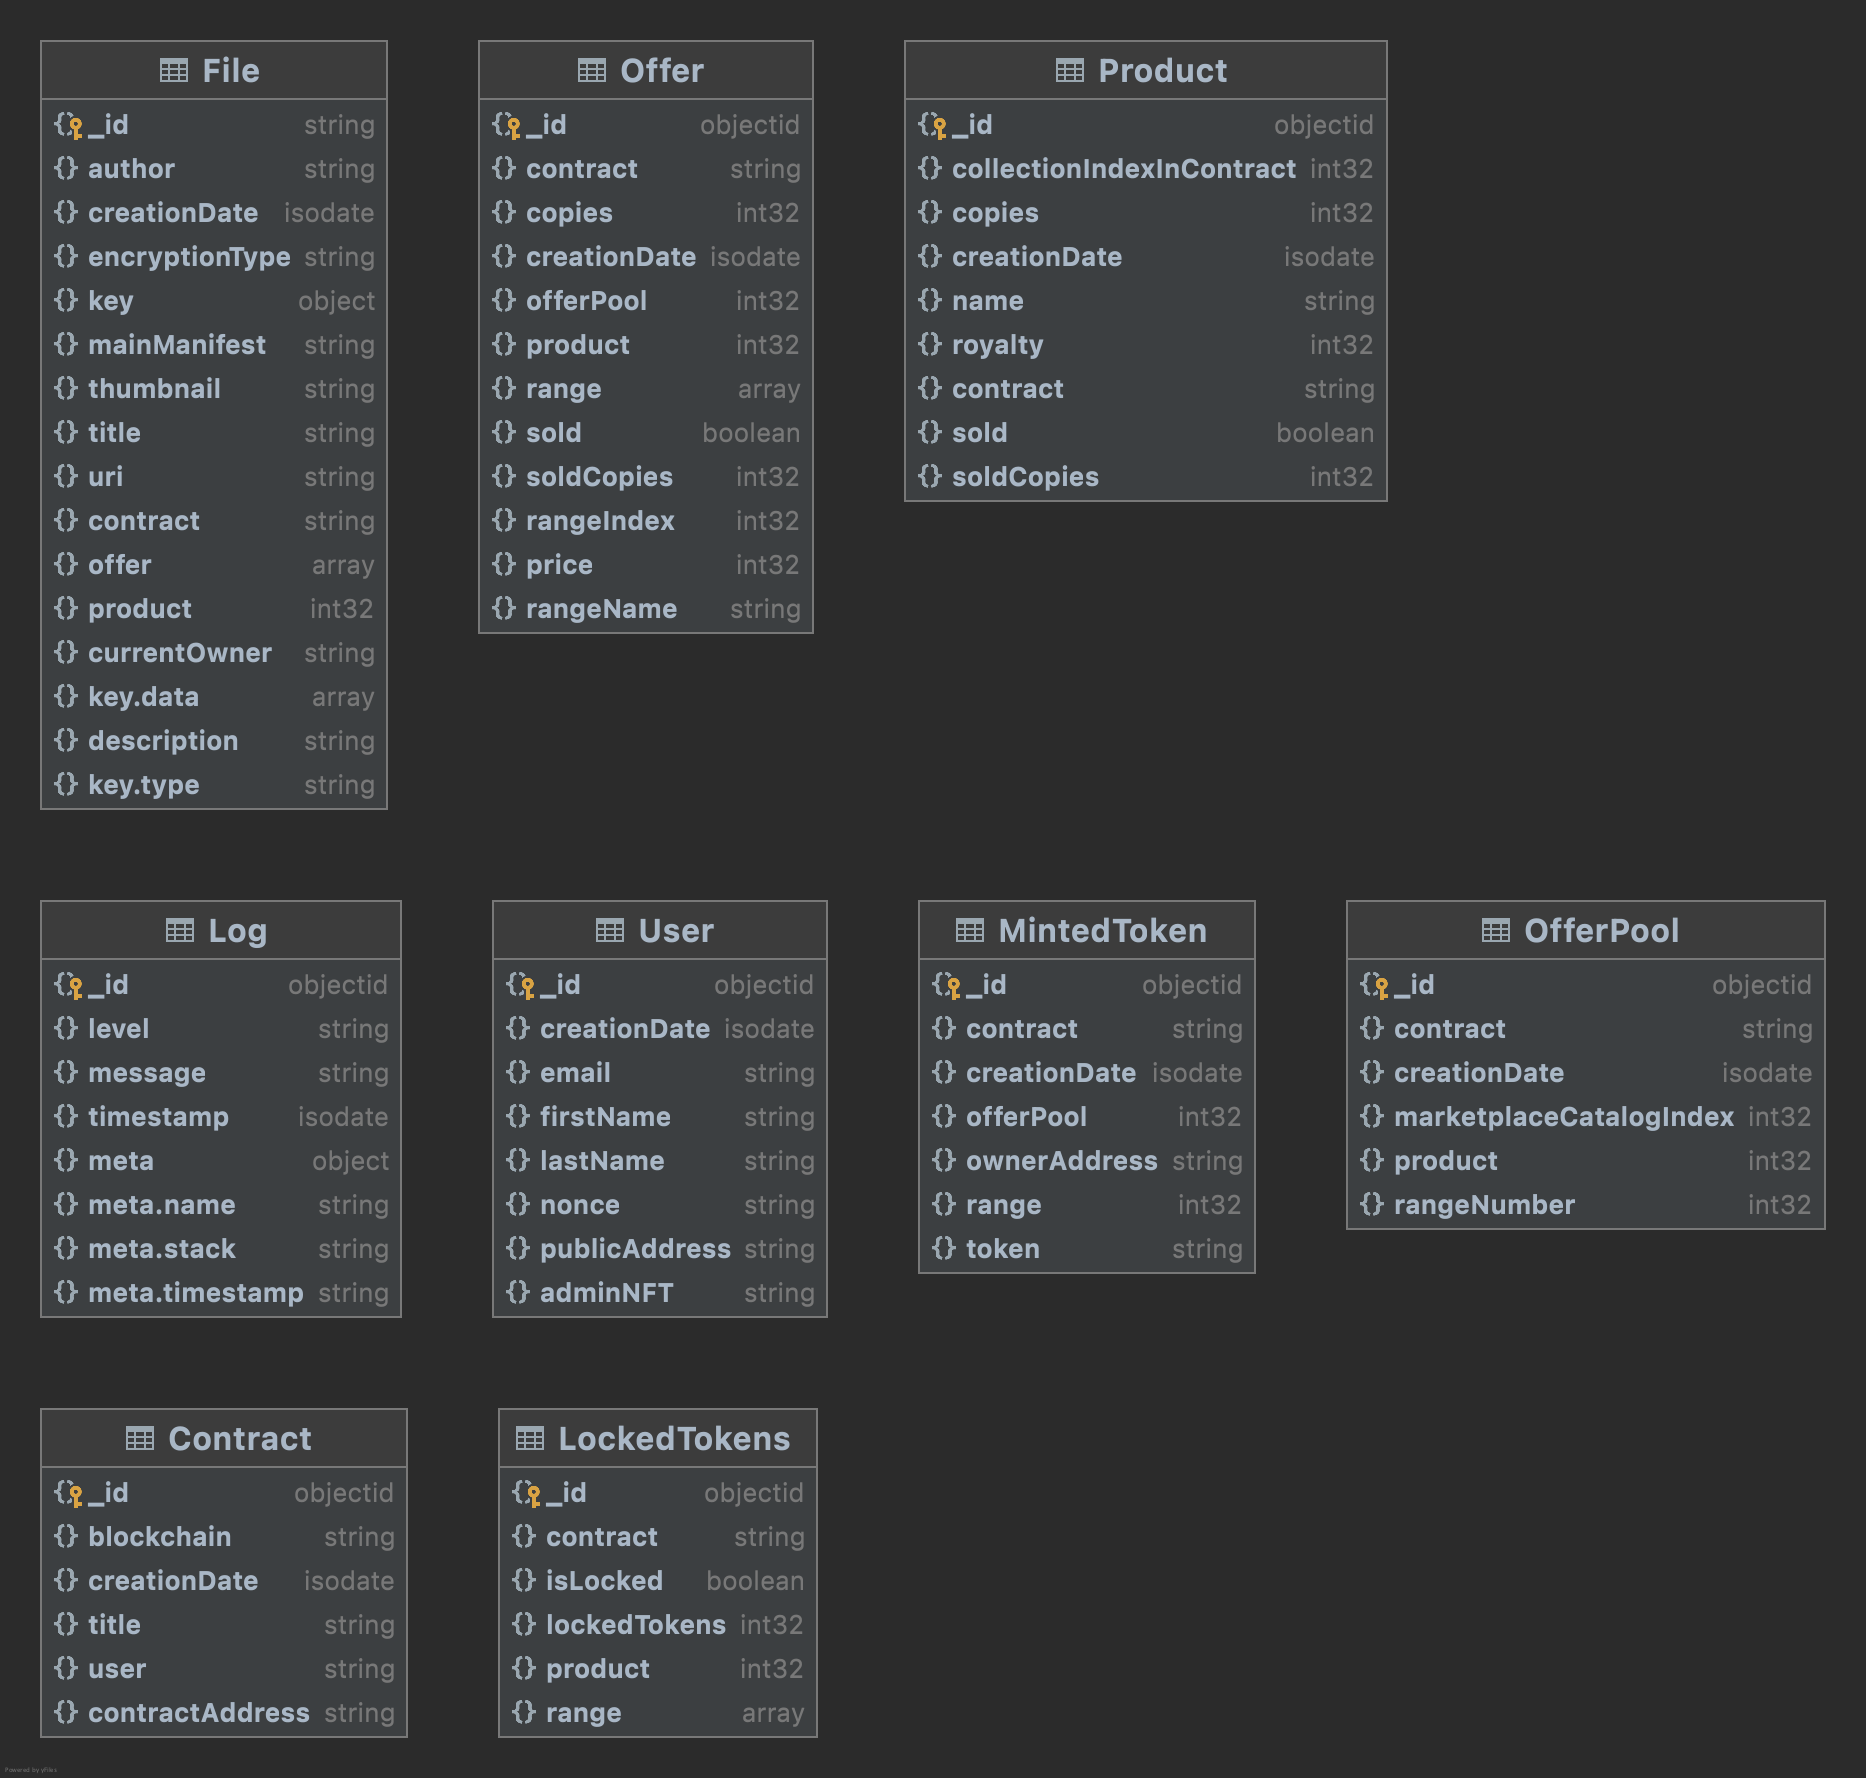
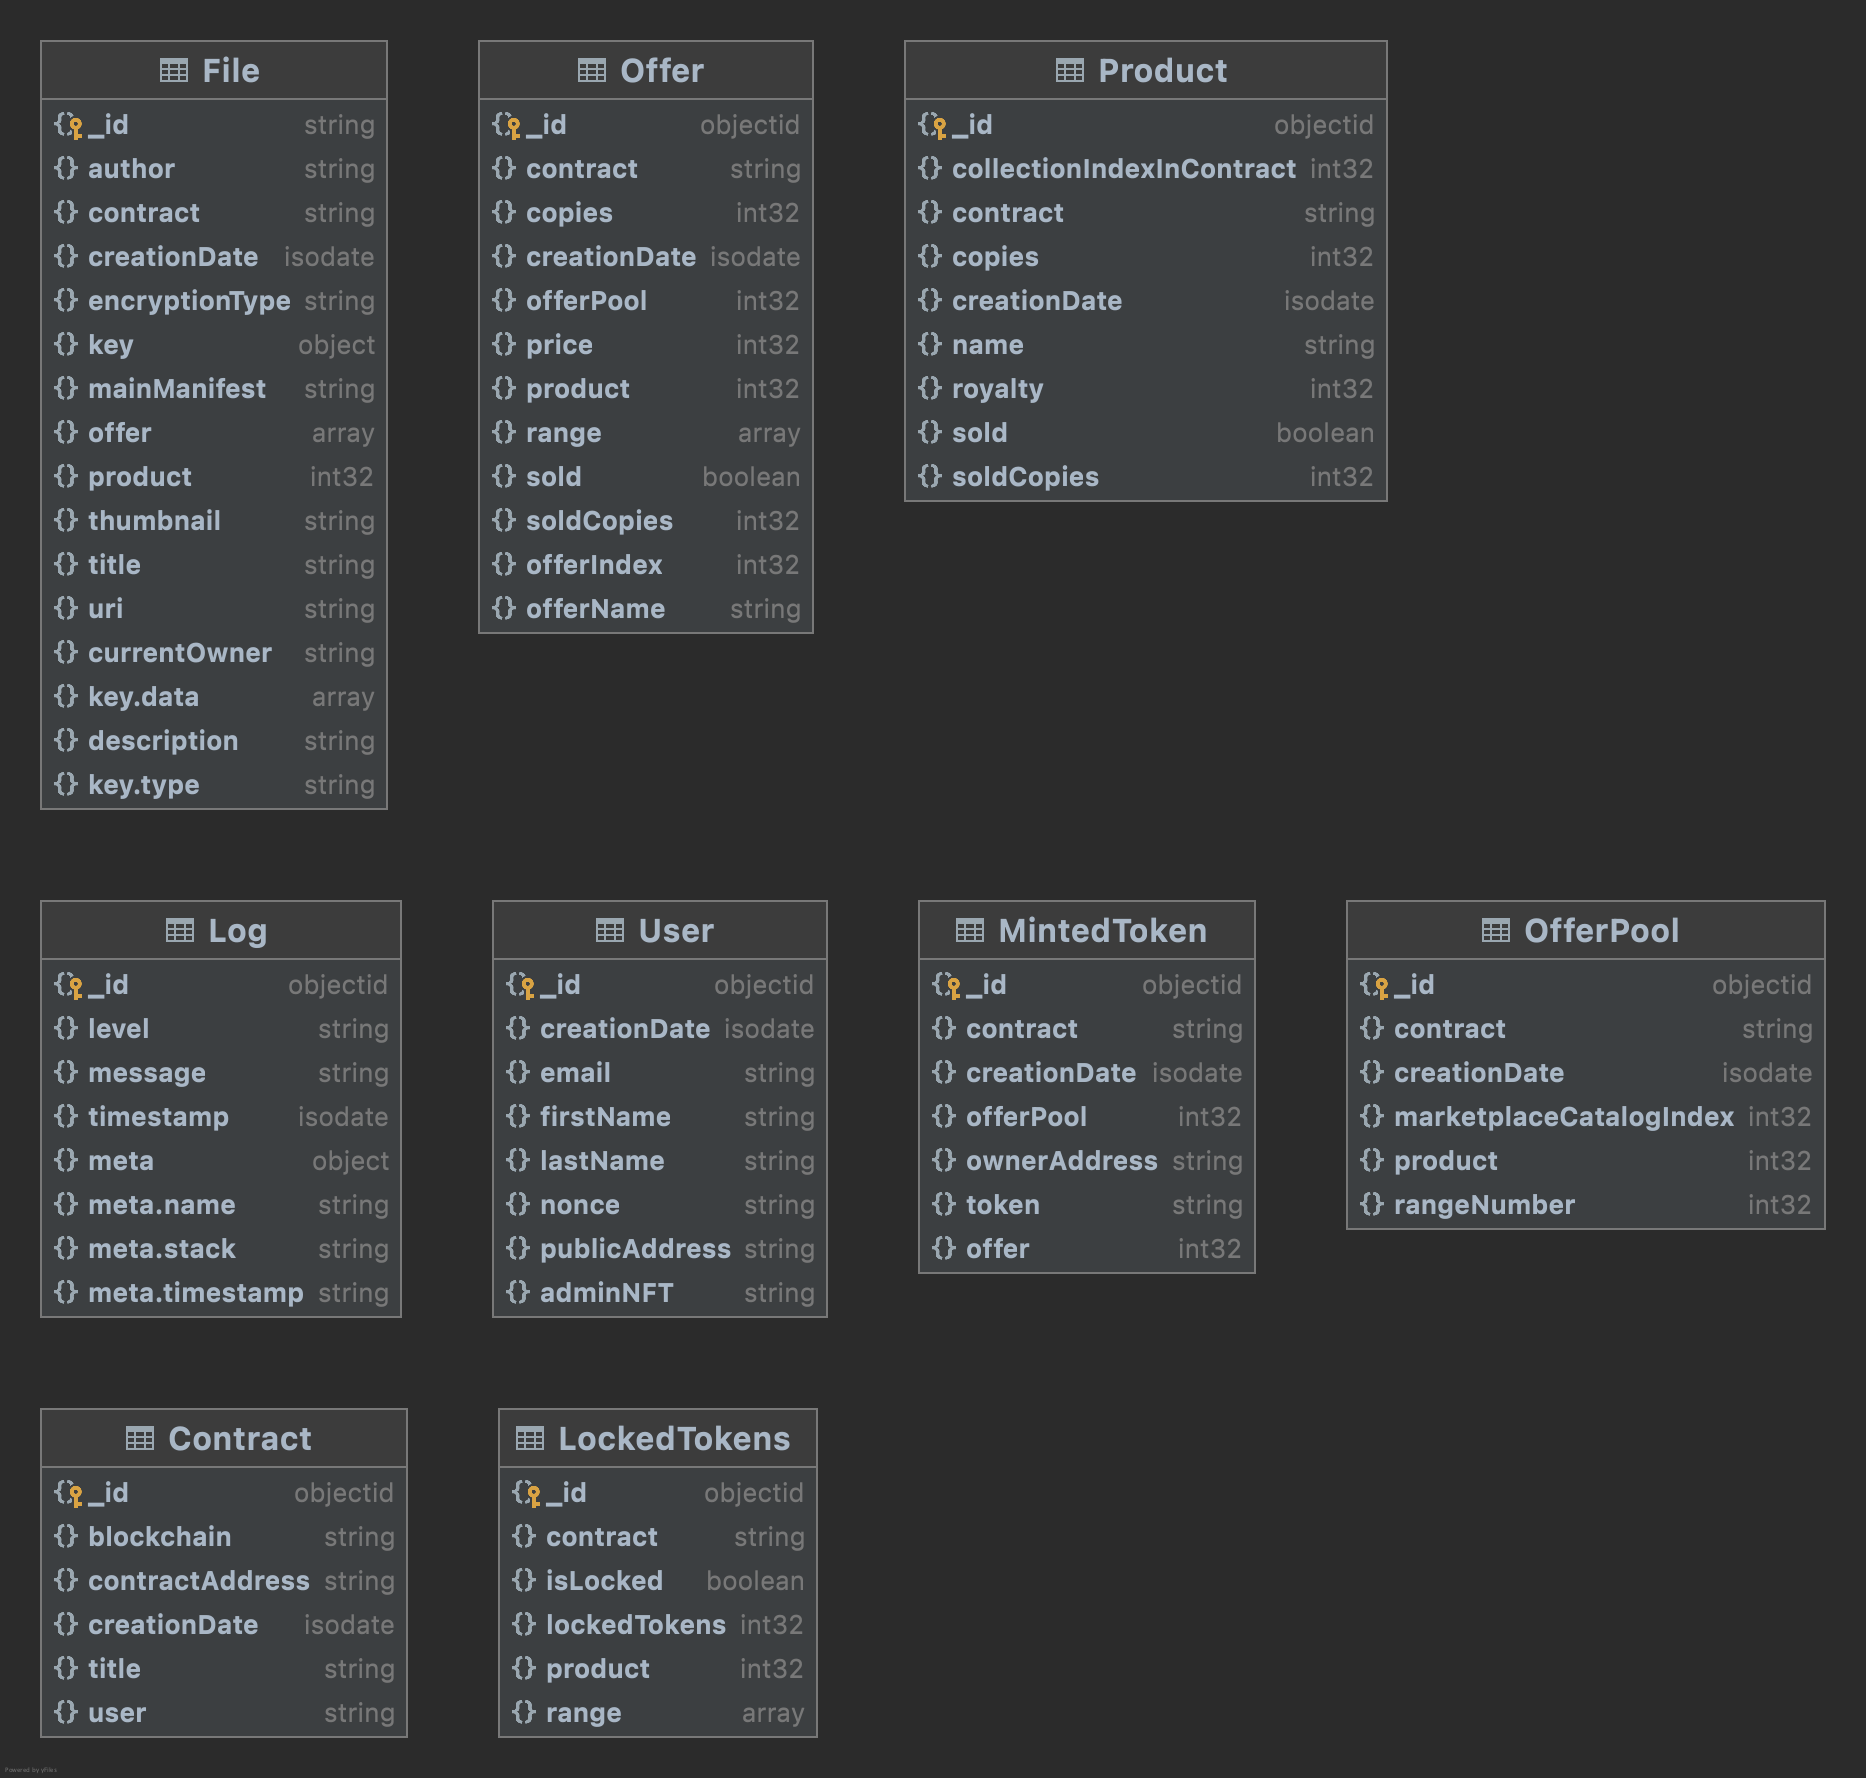
updating functionality of endpoint of getting files by NFT; updating documentation; refactoring;

diff --git a/demo-decrypt-node/bin/routes/nft.js b/demo-decrypt-node/bin/routes/nft.js
@@ -4,54 +4,23 @@ const { validation } = require('../middleware');
 module.exports = context => {
   const router = express.Router()
 
-  router.get('/files/:contract/:token/:offerPool', validation('getFilesByNFT', 'params'), async (req, res, next) => {
+  router.get('/files/:contract/:token/:product', validation('getFilesByNFT', 'params'), async (req, res, next) => {
     try {
-      const { contract, token, offerPool } = req.params;
+      const { contract, token, product } = req.params;
 
-      const offerP = parseInt(offerPool);
+      const prod = parseInt(product);
+
+      const offerPool = (await context.db.OfferPool.findOne({ contract, product: prod })).toObject();
 
       const files = await context.db.MintedToken.aggregate([
-        { $match: { contract, offerPool: offerP, token } },
-        {
-          $lookup: {
-            from: "Offer",
-            let: {
-              offerI: '$offer',
-              offerP: '$offerPool'
-            },
-            pipeline: [
-              {
-                $match: {
-                  $expr: {
-                    $and: [
-                      {
-                        $eq: [
-                          "$offerIndex",
-                          "$$offerI"
-                        ]
-                      },
-                      {
-                        $eq: [
-                          "$offerPool",
-                          "$$offerP"
-                        ]
-                      }
-                    ]
-                  }
-                }
-              }
-            ],
-            as: "offers"
-          }
-        },
-        { $unwind: '$offers' },
+        { $match: { contract, offerPool: offerPool.marketplaceCatalogIndex, token } },
         {
           $lookup: {
             from: "File",
             let: {
               contractT: "$contract",
               offerIndex: '$offer',
-              productT: '$offers.product'
+              productT: prod
             },
             pipeline: [
               {

diff --git a/demo-decrypt-node/bin/models/offer.js b/demo-decrypt-node/bin/models/offer.js
@@ -12,7 +12,7 @@ const Offer = new Schema({
   sold: { type: Boolean, default: false },
   price: { type: Number, required: true },
   range: { type: [Number], required: true },
-  offerName: { type: String },
+  offerName: { type: String, default: 'Default' },
   creationDate: { type: Date, default: Date.now }
 }, { versionKey: false });
 

diff --git a/demo-decrypt-node/bin/schemas/getFilesByNFT.js b/demo-decrypt-node/bin/schemas/getFilesByNFT.js
@@ -6,5 +6,5 @@ module.exports = Joi.object({
     .messages({ 'string.pattern.base': 'Invalid Contract address' })
     .required(),
   token: Joi.string().required(),
-  offerPool: Joi.number().required()
+  product: Joi.number().required()
 });

diff --git a/demo-decrypt-node/readme/get_files_by_nft.md b/demo-decrypt-node/readme/get_files_by_nft.md
@@ -22,7 +22,7 @@ Get all files which belong particular NFT token
       "type": "string"
     }
   },
-  "offerPool": {
+  "product": {
     "required": true,
     "content": {
       "type": "number"
